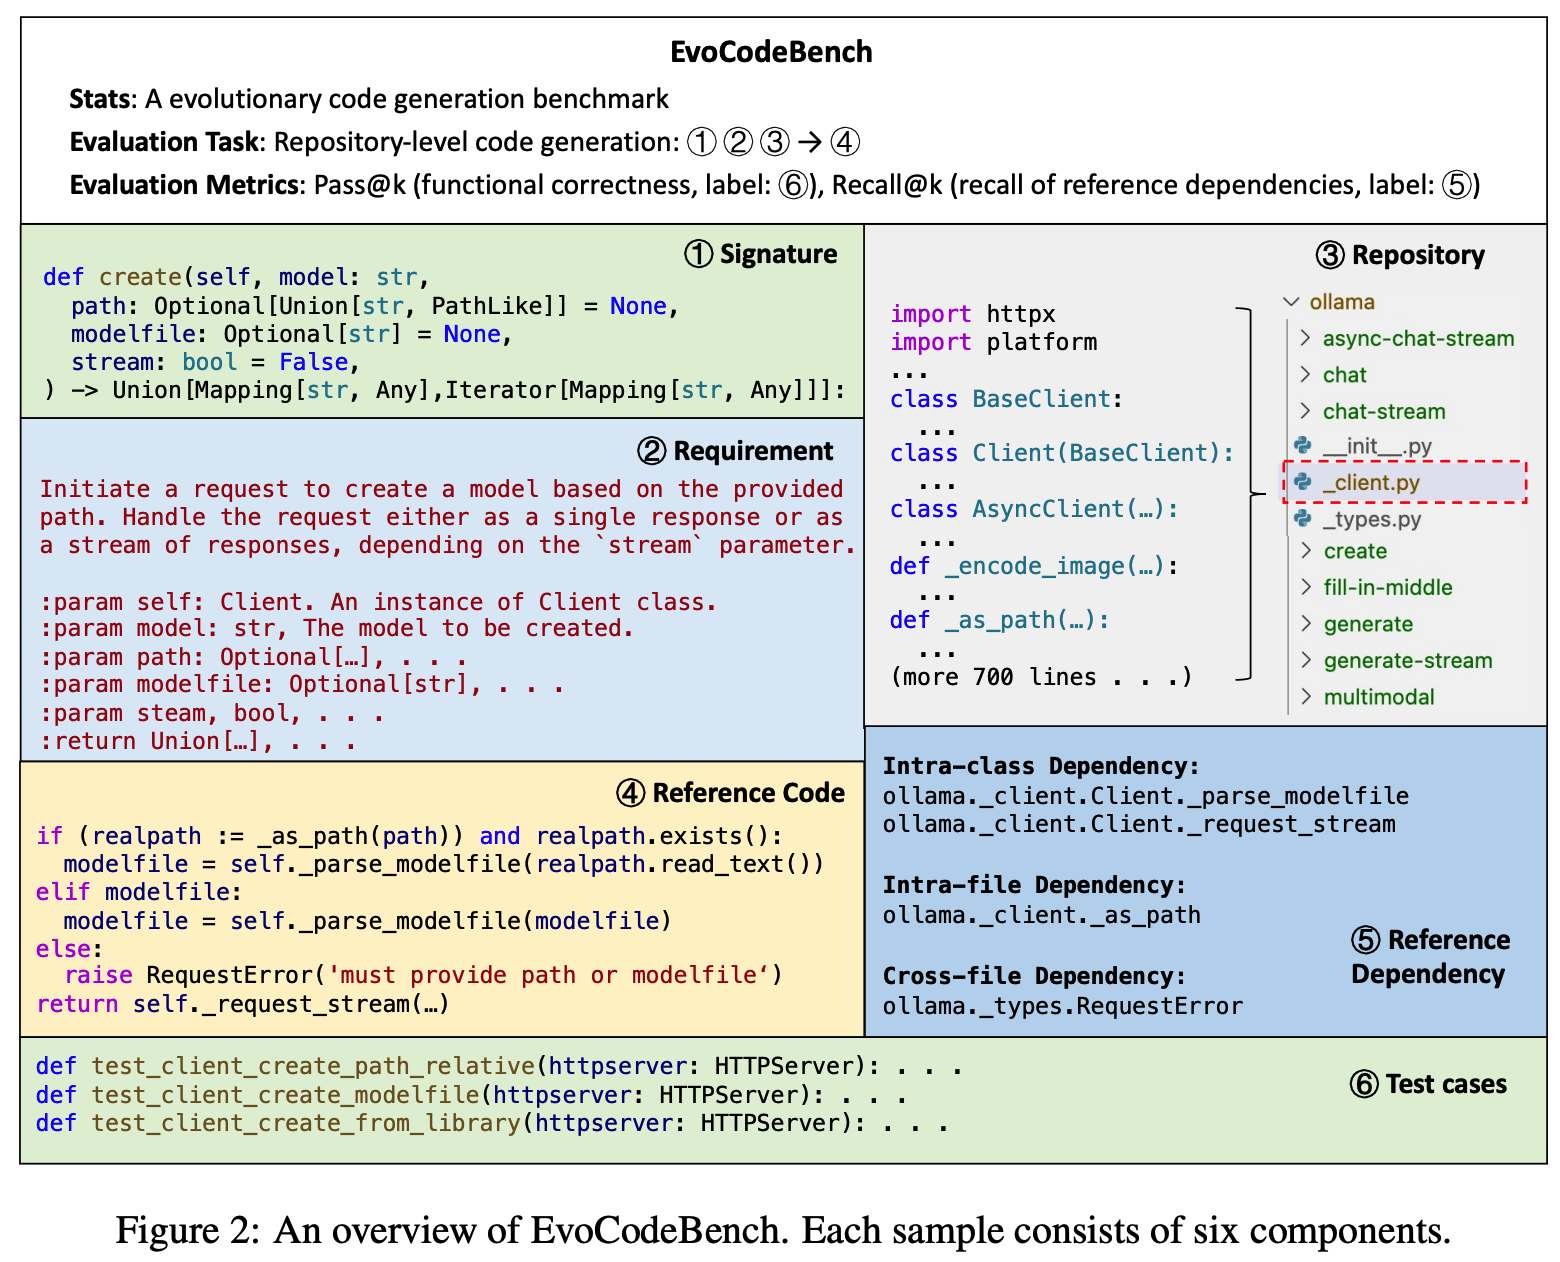
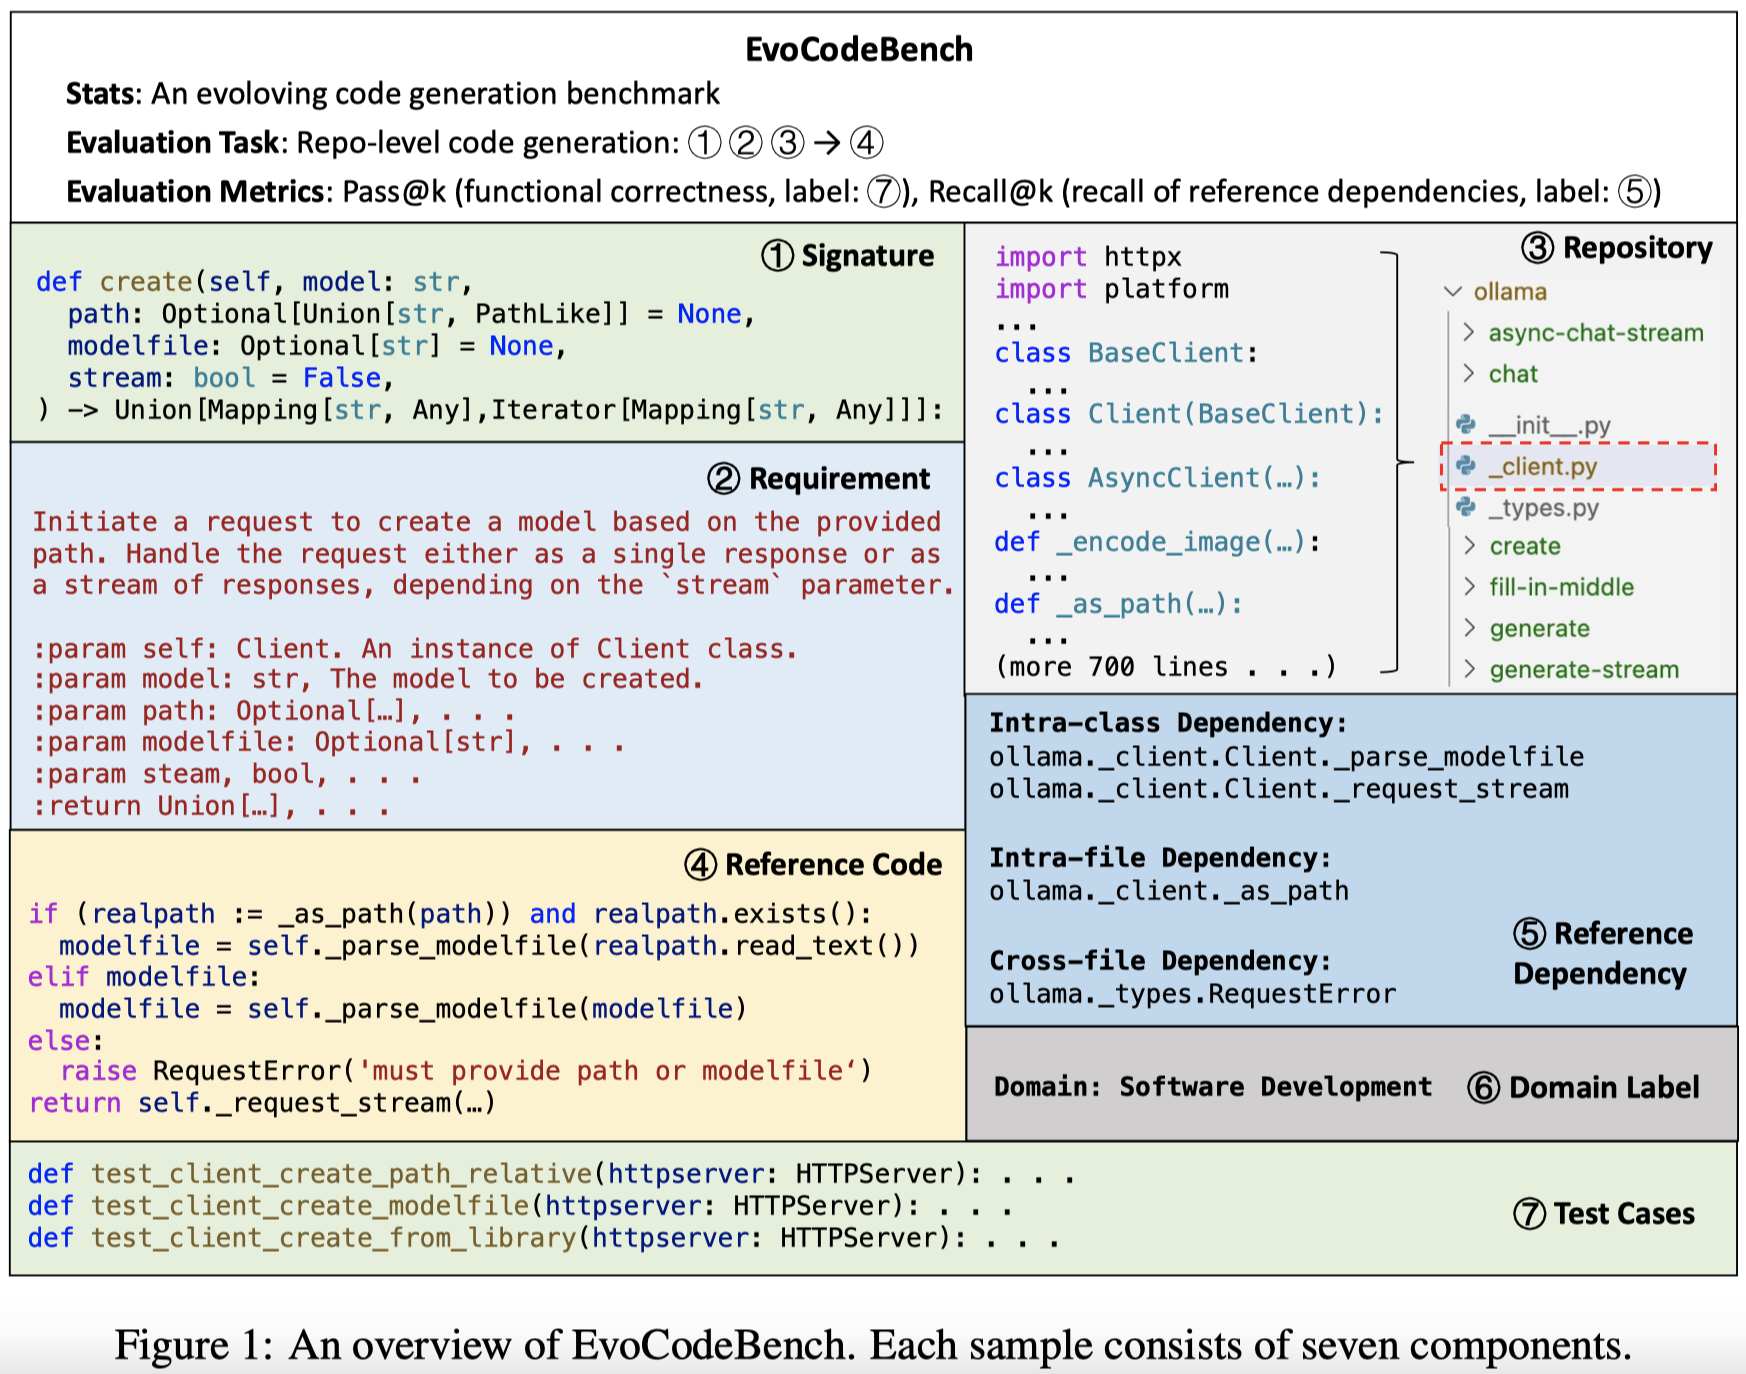
Update domain labels

Changed region(s): [[0.0, 0.0, 1.0, 0.9271], [0.0615, 0.958, 0.9231, 1.0]]

diff --git a/README.md b/README.md
@@ -48,6 +48,7 @@ Each sample in EvoCodeBench contains the following fields:
 - `indent`: int, the indent of the code to be generated.
 - `tests`: list, a list of test functions, which are used to evaluate the generated code.
 - `requirement`: dict, the requirement of the code to be generated. The keys include `Functionality` and `Arguments`. `Functionality` is a string describing the functionality of the code to be generated. `Arguments` is a string explaining the input and output parameters.
+- `domain`: string, the domain of the code to be generated, e.g., `Internet`.
 
 
 ## Repositories and Dependency Data
